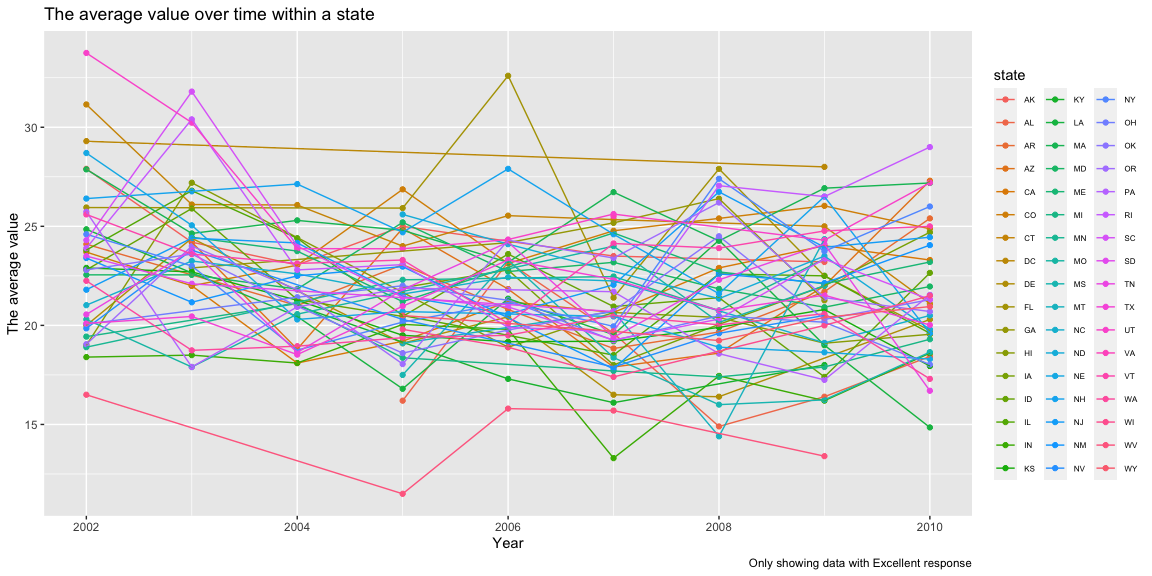
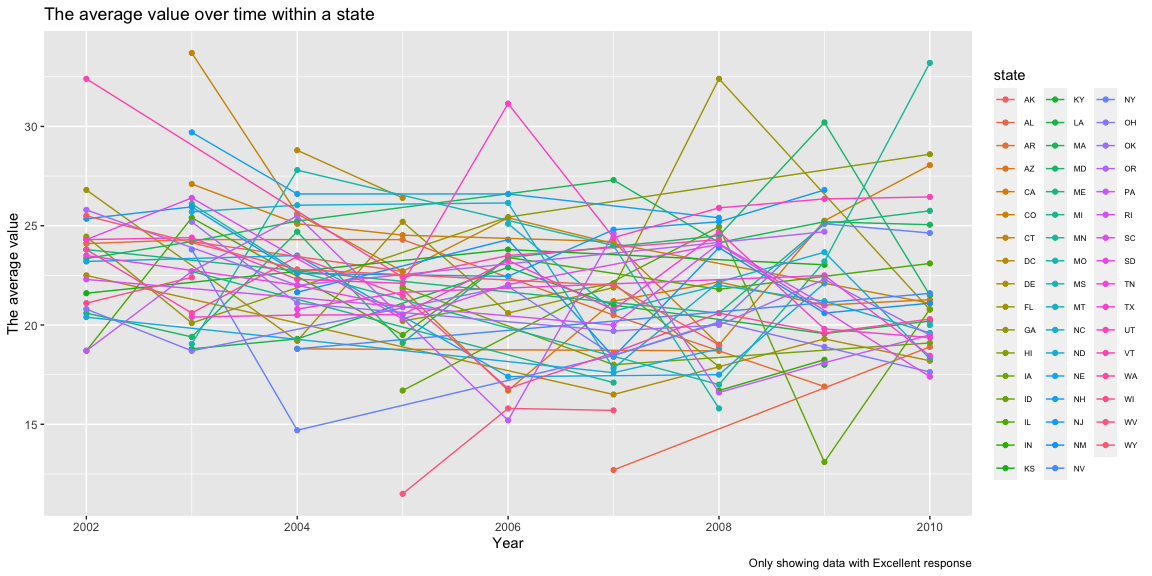
included other responses

diff --git a/p8105_hw3_yj2803.md b/p8105_hw3_yj2803.md
@@ -217,9 +217,9 @@ data("brfss_smart2010") # call BRFSS data from the library
 ``` r
 df_brfss_cleaned <- brfss_smart2010 |> 
   janitor::clean_names() |> 
-  filter(topic == "Overall Health" & response == c("Excellent", "Poor")) |>  # focus on Overall Health; only include responses from "Excellent" to "Poor"
+  filter(topic == "Overall Health" & response == c("Excellent", "Very good", "Good", "Fair", "Poor")) |>  # focus on Overall Health; only include responses from "Excellent" to "Poor"
   mutate(
-    response = factor(response, levels = c("Poor", "Excellent")) # change response as factor taking levels ordered from “Poor” to “Excellent”
+    response = factor(response, levels = c("Poor", "Fair", "Good", "Very good", "Excellent")) # change response as factor taking levels ordered from “Poor” to “Excellent”
   )
 ```
 
@@ -242,8 +242,8 @@ df_brfss_2010 <- df_brfss_cleaned |>
   filter(count >= 7) # show states which have >= 7 locations
 ```
 
-7 or more locations were observed in CT, FL, MA, NC, NJ, PA in 2002; CA,
-CO, FL, ID, MA, MD, NC, NE, NJ, NM, NY, OH, PA, SC, TX, UT, WA in 2010.
+7 or more locations were observed in GA, MA, ME, NJ, OH, PA, RI in 2002;
+CA, CO, FL, ID, MA, MD, ME, NC, NY, OH, PA, SC, TN, TX, UT in 2010.
 
 - Construct a dataset that is limited to `Excellent` responses, and
   contains, year, state, and a variable that averages the `data_value`
@@ -293,9 +293,19 @@ df_ny_2010 <- df_brfss_cleaned |>
   filter(locationabbr == "NY" & year == 2010)  # only include 2006 data in NY
   
 # plot for 2006
-p_2006 = df_ny_2006 |> 
+df_ny_2006 |> 
   ggplot(aes(x = locationdesc, y = data_value, color = response)) +
-  geom_point()
+  geom_point() 
+```
+
+![](p8105_hw3_yj2803_files/figure-gfm/unnamed-chunk-14-1.png)<!-- -->
+
+``` r
 
 # plot for 2010
+df_ny_2010 |> 
+  ggplot(aes(x = locationdesc, y = data_value, color = response)) +
+  geom_point() 
 ```
+
+![](p8105_hw3_yj2803_files/figure-gfm/unnamed-chunk-14-2.png)<!-- -->
